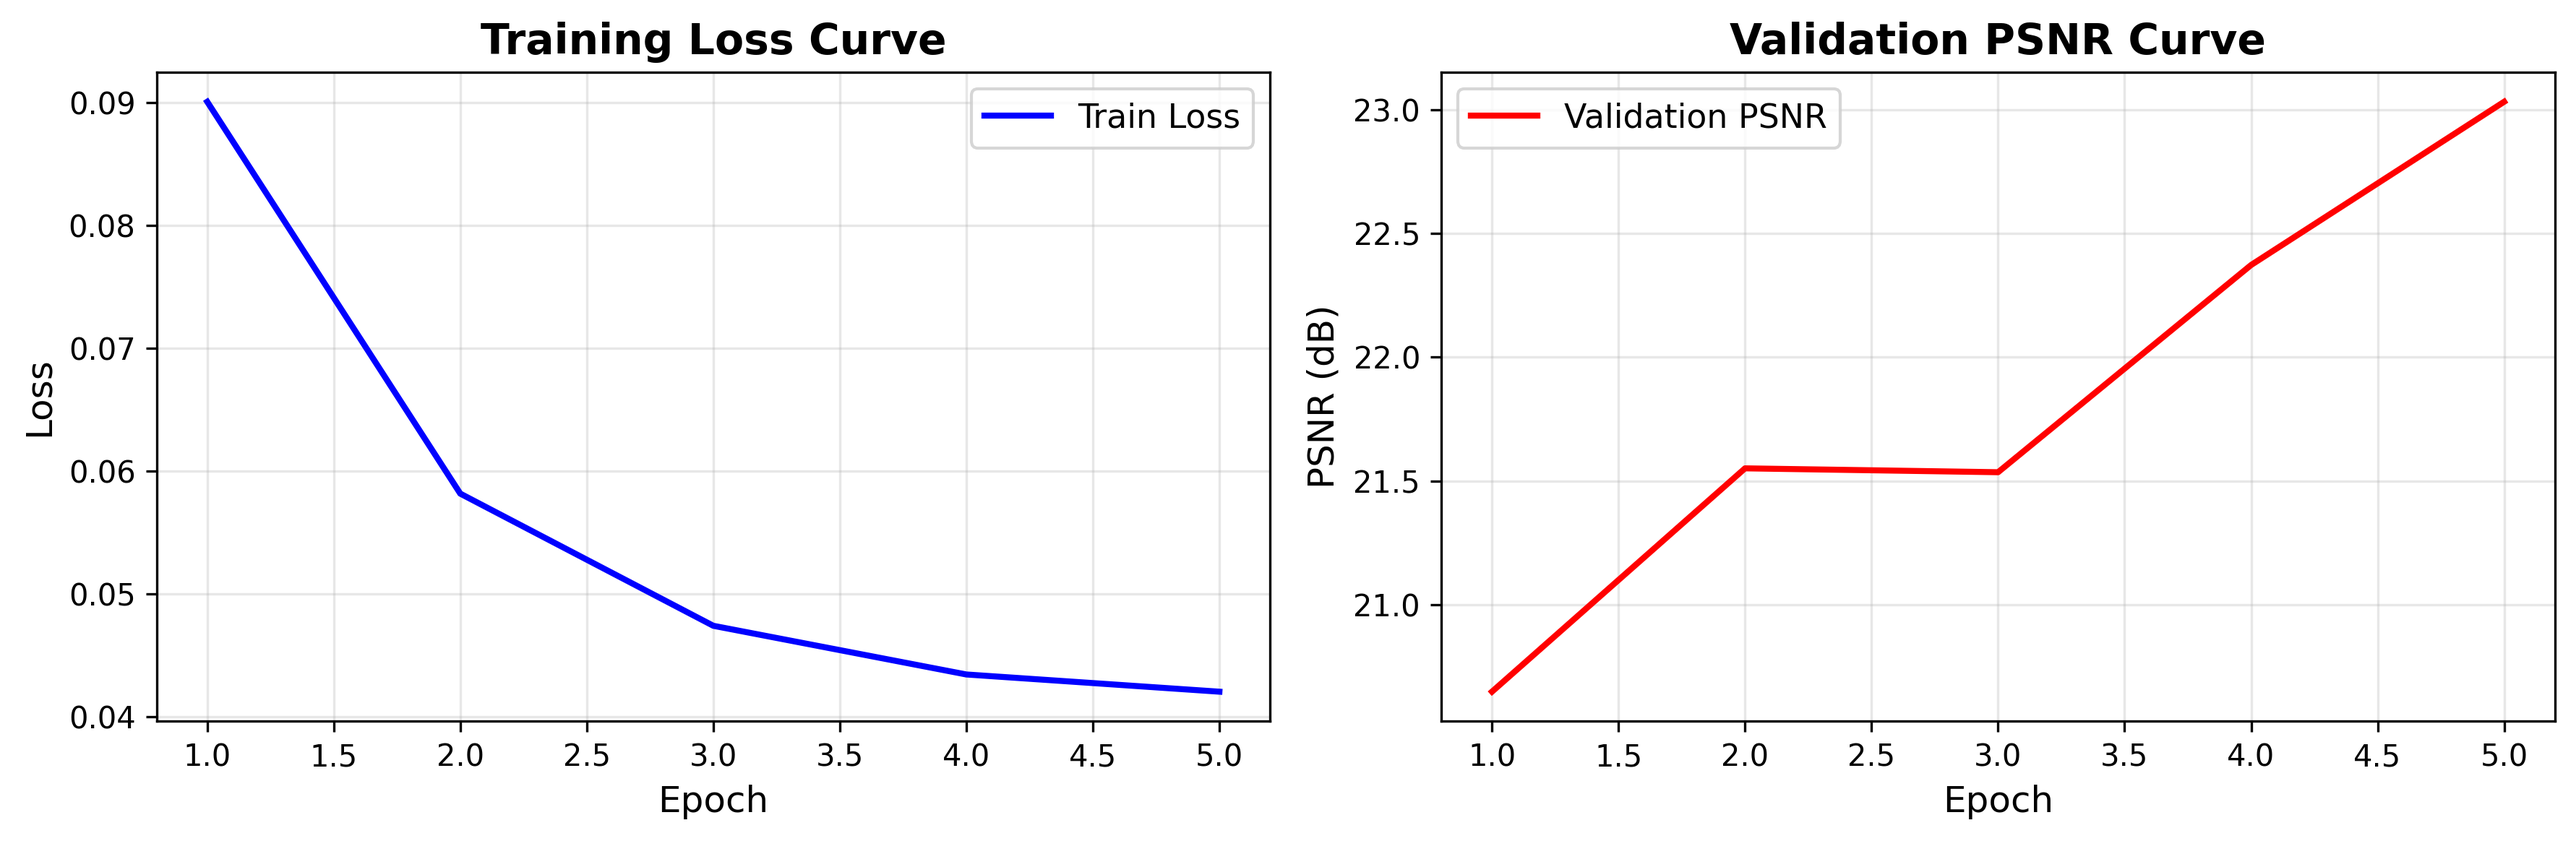
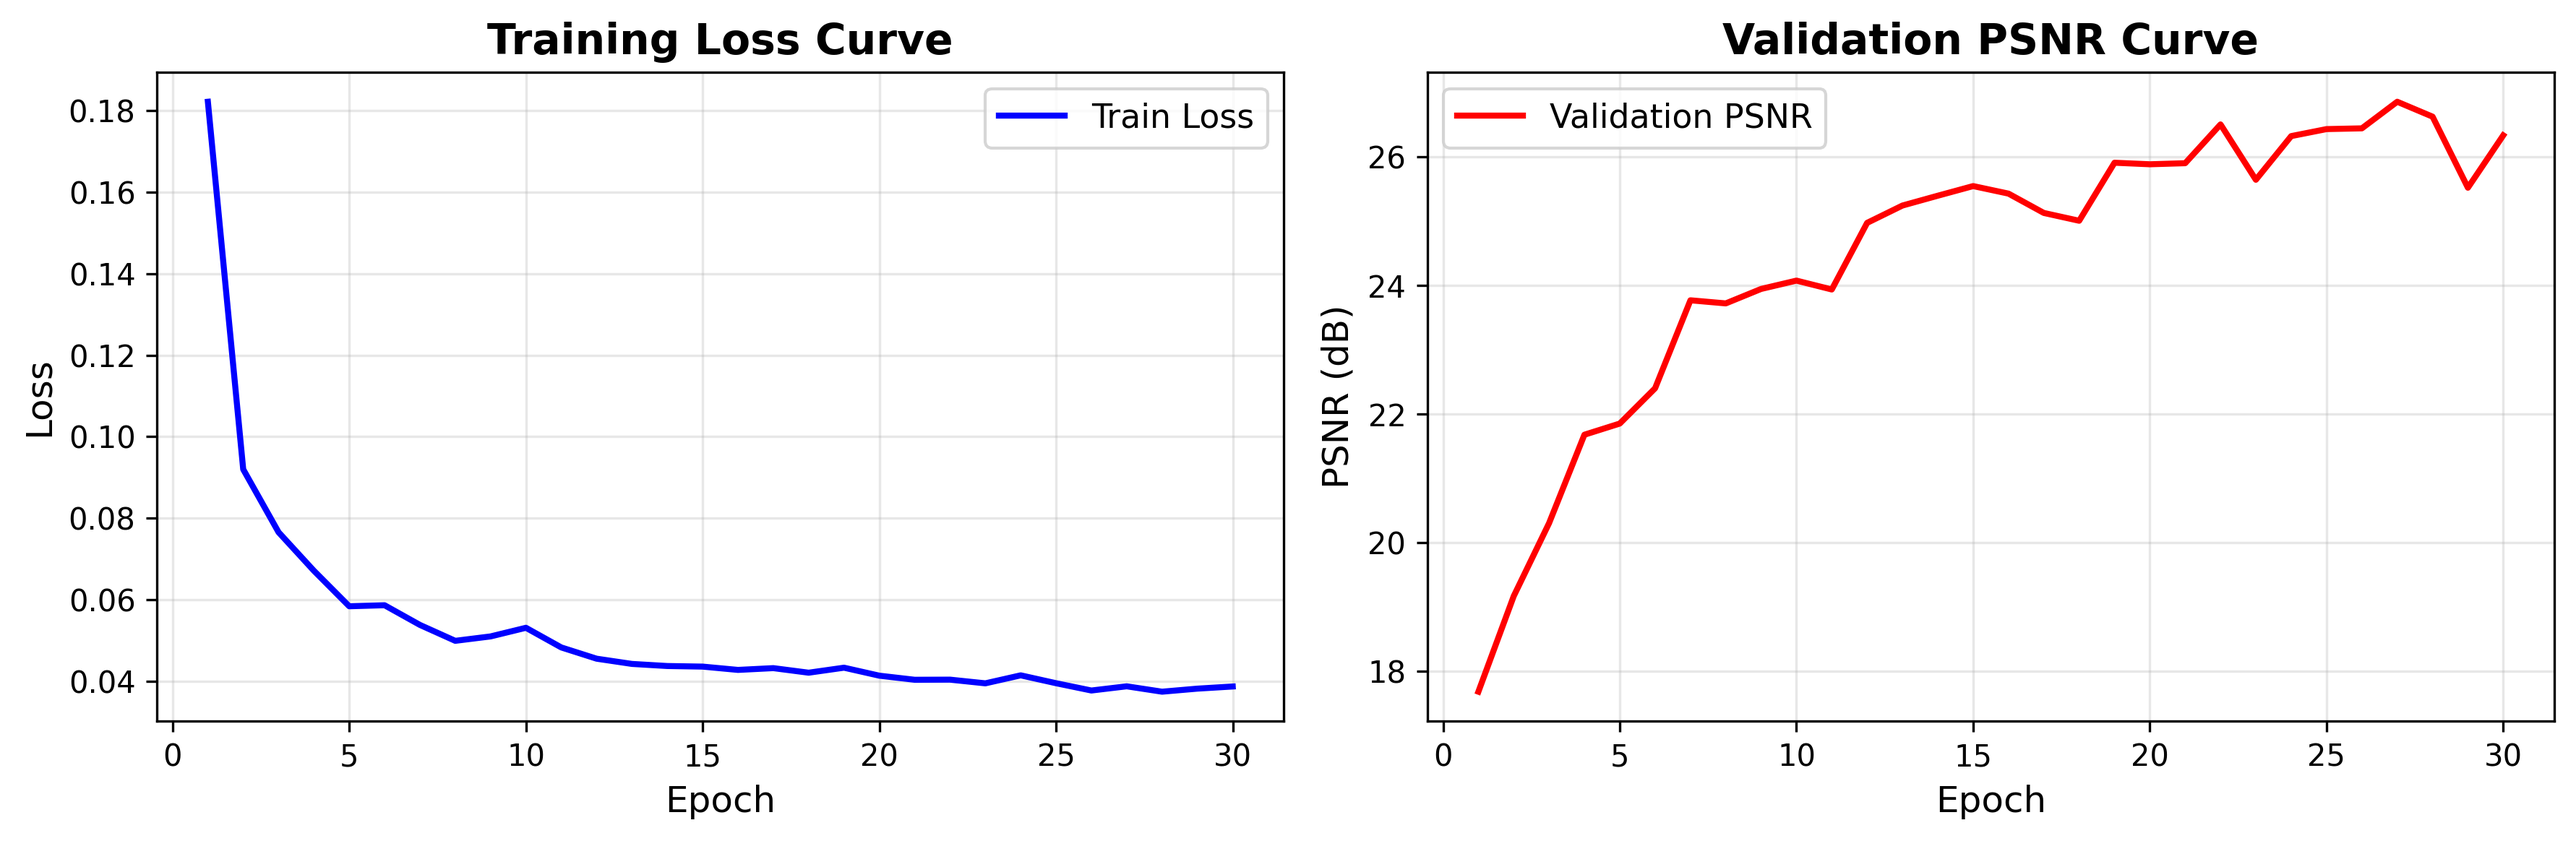
testing on DIV2K

diff --git a/src/test_div2k.py b/src/test_div2k.py
@@ -1,0 +1,132 @@
+import os
+import argparse
+import torch
+import matplotlib.pyplot as plt
+from torchvision.transforms.functional import to_tensor, to_pil_image
+
+from dataset import DIV2KDataset
+from model_resnet_sr import ResNetSR
+from utils import calc_psnr
+
+# -----------------------------
+# Args
+# -----------------------------
+parser = argparse.ArgumentParser(description="Evaluate DIV2K validation subset.")
+parser.add_argument(
+    "--weights",
+    "-w",
+    default="checkpoints/epoch_25.pth",
+    help="Path to the trained model weights.",
+)
+args = parser.parse_args()
+
+# -----------------------------
+# Config
+# -----------------------------
+SCALE = 4
+CROP = 192  # not used because test does not crop
+MODEL_PATH = args.weights
+
+root = os.path.dirname(os.path.abspath(__file__))
+
+VAL_HR = f"{root}/data/div2k/Dataset/DIV2K_valid_HR"
+VAL_LR = f"{root}/data/div2k/Dataset/DIV2K_valid_LR_bicubic_X4/X4"
+
+os.makedirs("test_results", exist_ok=True)
+
+# -----------------------------
+# Load validation dataset
+# -----------------------------
+dataset = DIV2KDataset(VAL_HR, VAL_LR, crop_size=CROP, scale=SCALE)
+# last 50 images of validation set
+test_indices = range(len(dataset) - 50, len(dataset))
+
+test_data = [dataset[i] for i in test_indices]
+
+# -----------------------------
+# Load model
+# -----------------------------
+device = "cuda" if torch.cuda.is_available() else "cpu"
+model = ResNetSR(scale_factor=SCALE).to(device)
+model.load_state_dict(torch.load(MODEL_PATH, map_location=device))
+model.eval()
+
+# -----------------------------
+# Test loop
+# -----------------------------
+psnr_list = []
+
+for idx, (lr, hr) in zip(test_indices, test_data):
+    lr = lr.unsqueeze(0).to(device)   # [1, C, H, W]
+    hr = hr.unsqueeze(0).to(device)
+
+    with torch.no_grad():
+        sr = model(lr)
+
+    psnr = calc_psnr(sr, hr)
+    psnr_list.append(psnr)
+
+    # ---------------------------------------
+    # Visualization for each image
+    # ---------------------------------------
+    lr_img = to_pil_image(lr.squeeze(0).cpu())
+    sr_img = to_pil_image(sr.squeeze(0).cpu())
+    hr_img = to_pil_image(hr.squeeze(0).cpu())
+
+    # center and zoom patch
+    H, W = hr_img.size[1], hr_img.size[0]
+    cx, cy = H // 2, W // 2
+    crop_size = 50
+
+    hr_y1, hr_y2 = cx - crop_size // 2, cx + crop_size // 2
+    hr_x1, hr_x2 = cy - crop_size // 2, cy + crop_size // 2
+
+    lr_y1, lr_y2 = hr_y1 // SCALE, hr_y2 // SCALE
+    lr_x1, lr_x2 = hr_x1 // SCALE, hr_x2 // SCALE
+
+    hr_crop = hr_img.crop((hr_x1, hr_y1, hr_x2, hr_y2))
+    lr_crop = lr_img.crop((lr_x1, lr_y1, lr_x2, lr_y2))
+    sr_crop = sr_img.crop((hr_x1, hr_y1, hr_x2, hr_y2))
+
+    # plot
+    fig, axs = plt.subplots(2, 3, figsize=(12, 8))
+    fig.suptitle(f"Validation Image #{idx} | PSNR={psnr:.2f} dB", fontsize=14)
+
+    axs[0,0].imshow(lr_img)
+    axs[0,0].set_title("LR (Input)")
+    axs[0,0].axis("off")
+
+    axs[0,1].imshow(sr_img)
+    axs[0,1].set_title("SR (Model Output)")
+    axs[0,1].axis("off")
+
+    axs[0,2].imshow(hr_img)
+    axs[0,2].set_title("HR (Ground Truth)")
+    axs[0,2].axis("off")
+
+    axs[1,0].imshow(lr_crop.resize((crop_size*4, crop_size*4)))
+    axs[1,0].set_title("LR Zoomed (upsampled)")
+    axs[1,0].axis("off")
+
+    axs[1,1].imshow(sr_crop)
+    axs[1,1].set_title("SR Zoomed")
+    axs[1,1].axis("off")
+
+    axs[1,2].imshow(hr_crop)
+    axs[1,2].set_title("HR Zoomed")
+    axs[1,2].axis("off")
+
+    plt.tight_layout()
+    save_path = f"test_results/valid_img_{idx}.png"
+    plt.savefig(save_path, dpi=200)
+    plt.close()
+
+    print(f"[{idx}] PSNR={psnr:.2f} dB | Saved to {save_path}")
+
+# -----------------------------
+# Print final result
+# -----------------------------
+print("\n==========================")
+print(" Final Test Summary")
+print("==========================")
+print(f"Average PSNR (last 50 images): {sum(psnr_list)/len(psnr_list):.2f} dB")

diff --git a/src/model_swinir_tiny.py b/src/model_swinir_tiny.py
@@ -1,0 +1,89 @@
+import torch
+import torch.nn as nn
+import torch.nn.functional as F
+
+# -------------------------
+# Window partition helpers
+# -------------------------
+def window_partition(x, window_size):
+    B, C, H, W = x.shape
+    x = x.view(B, C, H // window_size, window_size, W // window_size, window_size)
+    x = x.permute(0, 2, 4, 3, 5, 1)  # (B, num_H, num_W, ws, ws, C)
+    return x.reshape(-1, window_size * window_size, C)
+
+def window_reverse(windows, window_size, H, W, B):
+    x = windows.view(B, H // window_size, W // window_size, window_size, window_size, -1)
+    x = x.permute(0, 5, 1, 3, 2, 4)
+    return x.reshape(B, -1, H, W)
+
+# -------------------------
+# Window MHSA Block
+# -------------------------
+class WindowAttention(nn.Module):
+    def __init__(self, dim, num_heads, window_size):
+        super().__init__()
+        self.window_size = window_size
+        self.attn = nn.MultiheadAttention(dim, num_heads, batch_first=True)
+
+    def forward(self, x):
+        win = window_partition(x, self.window_size)
+        out, _ = self.attn(win, win, win)
+        B, C, H, W = x.shape
+        out = window_reverse(out, self.window_size, H, W, B)
+        return out
+
+# -------------------------
+# Swin Block (simplified)
+# -------------------------
+class SwinBlock(nn.Module):
+    def __init__(self, dim=64, num_heads=4, window_size=8, mlp_ratio=2):
+        super().__init__()
+        self.norm1 = nn.LayerNorm(dim)
+        self.attn = WindowAttention(dim, num_heads, window_size)
+        self.norm2 = nn.LayerNorm(dim)
+        self.mlp = nn.Sequential(
+            nn.Linear(dim, dim * mlp_ratio),
+            nn.GELU(),
+            nn.Linear(dim * mlp_ratio, dim)
+        )
+
+    def forward(self, x):
+        B, C, H, W = x.shape
+        x_perm = x.permute(0, 2, 3, 1)  # BCHW -> BHWC
+        
+        res = x_perm
+        x_perm = self.norm1(x_perm)
+        x_attn = self.attn(x_perm.permute(0, 3, 1, 2))
+        x_perm = res + x_attn.permute(0, 2, 3, 1)
+
+        res2 = x_perm
+        x_perm = self.norm2(x_perm)
+        x_perm = res2 + self.mlp(x_perm)
+
+        return x_perm.permute(0, 3, 1, 2)  # BHWC -> BCHW
+
+# -------------------------
+# Tiny SwinIR model
+# -------------------------
+class SwinIR_Tiny(nn.Module):
+    def __init__(self, dim=64, num_blocks=4, window_size=8, upscale=4):
+        super().__init__()
+        self.upscale = upscale
+
+        self.entry = nn.Conv2d(3, dim, 3, padding=1)
+        self.blocks = nn.Sequential(*[
+            SwinBlock(dim=dim, num_heads=4, window_size=window_size)
+            for _ in range(num_blocks)
+        ])
+
+        self.upsample = nn.Sequential(
+            nn.Conv2d(dim, dim * upscale * upscale, 3, padding=1),
+            nn.PixelShuffle(upscale),
+            nn.Conv2d(dim, 3, 3, padding=1)
+        )
+
+    def forward(self, x):
+        x = self.entry(x)
+        x = self.blocks(x)
+        x = self.upsample(x)
+        return x

diff --git a/src/train.py b/src/train.py
@@ -7,6 +7,7 @@ import matplotlib.pyplot as plt
 
 from dataset import DIV2KDataset
 from model_resnet_sr import ResNetSR
+from model_swinir_tiny import SwinIR_Tiny
 from utils import calc_psnr
 
 # -------------------------
@@ -14,9 +15,9 @@ from utils import calc_psnr
 # -------------------------
 SCALE = 4
 CROP = 192
-BATCH = 4
+BATCH = 32
 LR = 1e-4
-EPOCHS = 5
+EPOCHS = 30
 
 root = os.path.dirname(os.path.abspath(__file__))
 TRAIN_HR = f"{root}/data/div2k/Dataset/DIV2K_train_HR"
@@ -41,6 +42,7 @@ val_loader = DataLoader(val_set, batch_size=1)
 # -------------------------
 device = "cuda" if torch.cuda.is_available() else "cpu"
 model = ResNetSR(scale_factor=SCALE).to(device)
+#model = SwinIR_Tiny(upscale=SCALE).to(device)
 criterion = nn.L1Loss()
 optimizer = optim.Adam(model.parameters(), lr=LR)
 
